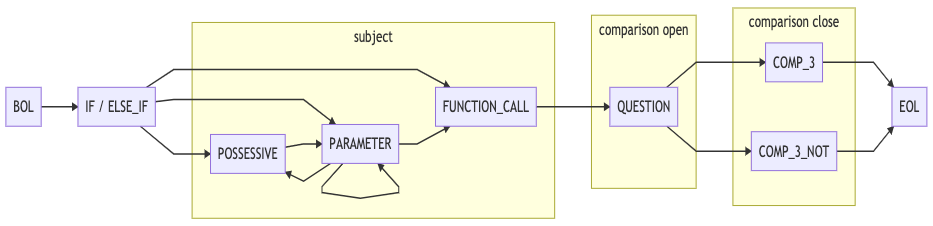
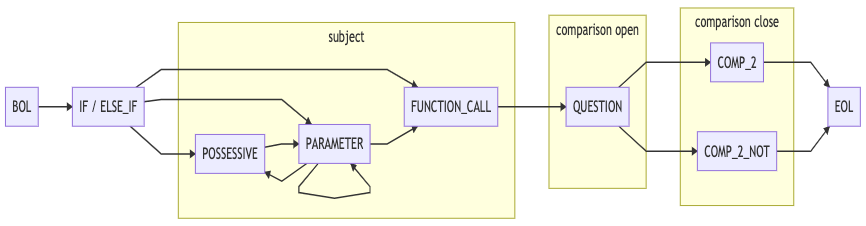
add a new alias for comp_not; rename comp_1 to subject and slide comp_2 and comp_3 down to comp_1 and comp_2

diff --git a/src/tokenizer/constants.rb b/src/tokenizer/constants.rb
@@ -107,40 +107,40 @@ module Tokenizer
       { mod: ZERO_OR_ONE, token: Token::POSSESSIVE },            # POSSESSIVE ?
       { mod: EXACTLY_ONE, branch_sequence: [                     # (
         { mod: EXACTLY_ONE, sub_sequence: [                      #   (
-          { mod: EXACTLY_ONE, token: Token::COMP_2 },            #     COMP_2
+          { mod: EXACTLY_ONE, token: Token::COMP_1 },            #     COMP_1
           { mod: EXACTLY_ONE, token: Token::QUESTION },          #     QUESTION
           { mod: EXACTLY_ONE, branch_sequence: [                 #     (
-            { mod: EXACTLY_ONE, token: Token::COMP_3 },          #       COMP_3
-            { mod: EXACTLY_ONE, token: Token::COMP_3_NOT },      #       | COMP_3
+            { mod: EXACTLY_ONE, token: Token::COMP_2 },          #       COMP_2
+            { mod: EXACTLY_ONE, token: Token::COMP_2_NOT },      #       | COMP_2
           ] },                                                   #     )
         ] },                                                     #   )
         { mod: EXACTLY_ONE, sub_sequence: [                      #   | (
-          { mod: EXACTLY_ONE, token: Token::COMP_1 },            #     COMP_1
+          { mod: EXACTLY_ONE, token: Token::SUBJECT },           #     SUBJECT
           { mod: ZERO_OR_ONE, token: Token::POSSESSIVE },        #     POSSESSIVE ?
           { mod: EXACTLY_ONE, branch_sequence: [                 #     (
             { mod: EXACTLY_ONE, sub_sequence: [                  #       (
               { mod: EXACTLY_ONE, branch_sequence: [             #         (
+                { mod: EXACTLY_ONE, token: Token::COMP_1 },      #           COMP_1
+                { mod: EXACTLY_ONE, token: Token::COMP_1_GTEQ }, #           | COMP_1_GTEQ
+                { mod: EXACTLY_ONE, token: Token::COMP_1_LTEQ }, #           | COMP_1_LTEQ
+              ] },                                               #         )
+              { mod: EXACTLY_ONE, branch_sequence: [             #         (
                 { mod: EXACTLY_ONE, token: Token::COMP_2 },      #           COMP_2
-                { mod: EXACTLY_ONE, token: Token::COMP_2_GTEQ }, #           | COMP_2_GTEQ
-                { mod: EXACTLY_ONE, token: Token::COMP_2_LTEQ }, #           | COMP_2_LTEQ
-              ] },                                               #         )
-              { mod: EXACTLY_ONE, branch_sequence: [             #         (
-                { mod: EXACTLY_ONE, token: Token::COMP_3 },      #           COMP_3
-                { mod: EXACTLY_ONE, token: Token::COMP_3_NOT },  #           | COMP_3
+                { mod: EXACTLY_ONE, token: Token::COMP_2_NOT },  #           | COMP_2
               ] },                                               #         )
             ] },                                                 #       )
             { mod: EXACTLY_ONE, sub_sequence: [                  #       | (
-              { mod: EXACTLY_ONE, token: Token::COMP_2_TO },     #         COMP_2_TO
+              { mod: EXACTLY_ONE, token: Token::COMP_1_TO },     #         COMP_1_TO
               { mod: EXACTLY_ONE, branch_sequence: [             #         (
-                { mod: EXACTLY_ONE, token: Token::COMP_3_EQ },   #           COMP_3_EQ
-                { mod: EXACTLY_ONE, token: Token::COMP_3_NEQ },  #           | COMP_3_NEQ
+                { mod: EXACTLY_ONE, token: Token::COMP_2_EQ },   #           COMP_2_EQ
+                { mod: EXACTLY_ONE, token: Token::COMP_2_NEQ },  #           | COMP_2_NEQ
               ] },                                               #         )
             ] },                                                 #       )
             { mod: EXACTLY_ONE, sub_sequence: [                  #       | (
-              { mod: EXACTLY_ONE, token: Token::COMP_2_YORI },   #         COMP_2_YORI
+              { mod: EXACTLY_ONE, token: Token::COMP_1_YORI },   #         COMP_1_YORI
               { mod: EXACTLY_ONE, branch_sequence: [             #         (
-                { mod: EXACTLY_ONE, token: Token::COMP_3_LT },   #           COMP_3_YORI
-                { mod: EXACTLY_ONE, token: Token::COMP_3_GT },   #           | COMP_3_GT
+                { mod: EXACTLY_ONE, token: Token::COMP_2_LT },   #           COMP_2_YORI
+                { mod: EXACTLY_ONE, token: Token::COMP_2_GT },   #           | COMP_2_GT
               ] },                                               #         )
             ] },                                                 #       )
           ] },                                                   #     )
@@ -162,8 +162,8 @@ module Tokenizer
       { mod: ZERO_OR_ONE, token: Token::BANG },          # BANG ?
       { mod: ZERO_OR_ONE, token: Token::QUESTION },      # QUESTION ?
       { mod: EXACTLY_ONE, branch_sequence: [             # (
-        { mod: EXACTLY_ONE, token: Token::COMP_3 },      #   COMP_3
-        { mod: EXACTLY_ONE, token: Token::COMP_3_NOT },  #   | COMP_3
+        { mod: EXACTLY_ONE, token: Token::COMP_2 },      #   COMP_2
+        { mod: EXACTLY_ONE, token: Token::COMP_2_NOT },  #   | COMP_2
       ] },                                               # )
       { mod: EXACTLY_ONE, token: Token::EOL },           # EOL
     ],

diff --git a/src/tokenizer/lexer/token_lexers/comp_2.rb b/src/tokenizer/lexer/token_lexers/comp_2.rb
@@ -1,15 +1,30 @@
 module Tokenizer
   class Lexer
     module TokenLexers
-      # Either an rvalue (primitive or variable) or its a property token. It
-      # cannot be a key variable (otherwise rvalue? would be true).
       def comp_2?(chunk)
-        rvalue?(chunk) || property_type(chunk, validate?: false) != Token::KEY_VAR
+        chunk =~ /^ならば?$/
       end
 
-      def tokenize_comp_2(chunk)
-        @stack << comp_token(chunk)
-        Token.new Token::COMP_2
+      def tokenize_comp_2(chunk, options = { reverse?: false })
+        comparison_tokens = {
+          Token::QUESTION    => [Token.new(Token::COMP_EQ)],
+          Token::COMP_1      => [Token.new(Token::COMP_EQ)],
+          Token::COMP_1_LTEQ => [Token.new(Token::COMP_LTEQ)],
+          Token::COMP_1_GTEQ => [Token.new(Token::COMP_GTEQ)],
+        }[@context.last_token_type]
+
+        raise Errors::UnexpectedInput, chunk if comparison_tokens.nil?
+
+        if @context.last_token_type == Token::QUESTION
+          if stack_is_truthy_check?
+            comparison_tokens << Token.new(Token::RVALUE, '真', sub_type: Token::VAL_TRUE)
+          else # function call
+            @stack.pop # drop question
+          end
+        end
+
+        flip_comparison comparison_tokens if options[:reverse?]
+        close_if_statement comparison_tokens
       end
     end
   end

diff --git a/src/token.rb b/src/token.rb
@@ -45,20 +45,20 @@ class Token
 
     # comparators
     # 条件式、左側
-    :COMP_1,         # [変数|値]が
+    :SUBJECT,        # [変数|値]が
     # 条件式、右側
-    :COMP_2,         # [変数|値](後:[ハテナマーク])
-    :COMP_2_TO,      # [変数|値]と
-    :COMP_2_YORI,    # [変数|値]より
-    :COMP_2_GTEQ,    # [変数|値]以上
-    :COMP_2_LTEQ,    # [変数|値]以下
+    :COMP_1,         # [変数|値](後:[ハテナマーク])
+    :COMP_1_TO,      # [変数|値]と
+    :COMP_1_YORI,    # [変数|値]より
+    :COMP_1_GTEQ,    # [変数|値]以上
+    :COMP_1_LTEQ,    # [変数|値]以下
     # 条件式、演算子
-    :COMP_3,         # ならば
-    :COMP_3_NOT,     # でなければ
-    :COMP_3_EQ,      # 等しければ
-    :COMP_3_NEQ,     # 等しくなければ
-    :COMP_3_GT,      # 大きければ
-    :COMP_3_LT,      # 小さければ
+    :COMP_2,         # ならば
+    :COMP_2_NOT,     # でなければ
+    :COMP_2_EQ,      # 等しければ
+    :COMP_2_NEQ,     # 等しくなければ
+    :COMP_2_GT,      # 大きければ
+    :COMP_2_LT,      # 小さければ
     # 比較演算子
     :COMP_LT,        # A < B
     :COMP_LTEQ,      # A <= B

diff --git a/src/tokenizer/lexer/token_lexers/comp_2_lt.rb b/src/tokenizer/lexer/token_lexers/comp_2_lt.rb
@@ -3,7 +3,7 @@ module Tokenizer
     module TokenLexers
       # rubocop:disable Layout/MultilineOperationIndentation
       # rubocop:disable Layout/SpaceAroundOperators
-      def comp_3_lt?(chunk)
+      def comp_2_lt?(chunk)
         chunk =~ /^(小|ちい)さければ$/ ||
         chunk =~ /^(短|みじか)ければ$/ ||
         chunk =~ /^(低|ひく)ければ$/   ||
@@ -13,7 +13,7 @@ module Tokenizer
       # rubocop:enable Layout/MultilineOperationIndentation
       # rubocop:enable Layout/SpaceAroundOperators
 
-      def tokenize_comp_3_lt(_chunk)
+      def tokenize_comp_2_lt(_chunk)
         close_if_statement [Token.new(Token::COMP_LT)]
       end
     end

diff --git a/src/tokenizer/lexer/token_lexers/comp_2_gt.rb b/src/tokenizer/lexer/token_lexers/comp_2_gt.rb
@@ -2,7 +2,7 @@ module Tokenizer
   class Lexer
     module TokenLexers
       # rubocop:disable Layout/MultilineOperationIndentation
-      def comp_3_gt?(chunk)
+      def comp_2_gt?(chunk)
         chunk =~ /^(大|おお)きければ$/ ||
         chunk =~ /^(長|なが)ければ$/   ||
         chunk =~ /^(高|たか)ければ$/   ||
@@ -11,7 +11,7 @@ module Tokenizer
       end
       # rubocop:enable Layout/MultilineOperationIndentation
 
-      def tokenize_comp_3_gt(_chunk)
+      def tokenize_comp_2_gt(_chunk)
         close_if_statement [Token.new(Token::COMP_GT)]
       end
     end

diff --git a/src/tokenizer/lexer.rb b/src/tokenizer/lexer.rb
@@ -336,7 +336,7 @@ module Tokenizer
 
       begin_scope Scope::TYPE_IF_BLOCK
 
-      Token.new Token::COMP_3
+      Token.new Token::COMP_2
     end
 
     # Unlike the other *_from_stack methods, this is non-destructive.
@@ -404,7 +404,7 @@ module Tokenizer
 
     # Returns true if the stack is just:
     # * IF or ELSE_IF
-    # * COMP_2 or POSSESSIVE + PROPERTY
+    # * COMP_1 or POSSESSIVE + PROPERTY
     # * QUESTION
     def stack_is_truthy_check?
       (@stack.size == 3 && @stack[1].type == Token::RVALUE) || (@stack.size == 4 && @stack[1].type == Token::POSSESSIVE)

diff --git a/src/tokenizer/lexer/token_lexers/comp_1.rb b/src/tokenizer/lexer/token_lexers/comp_1.rb
@@ -1,12 +1,14 @@
 module Tokenizer
   class Lexer
     module TokenLexers
+      # Either an rvalue (primitive or variable) or its a property token. It
+      # cannot be a key variable (otherwise rvalue? would be true).
       def comp_1?(chunk)
-        chunk =~ /.+が$/
+        rvalue?(chunk) || property_type(chunk, validate?: false) != Token::KEY_VAR
       end
 
       def tokenize_comp_1(chunk)
-        @stack << comp_token(chunk.chomp('が'))
+        @stack << comp_token(chunk)
         Token.new Token::COMP_1
       end
     end

diff --git a/src/tokenizer/context.rb b/src/tokenizer/context.rb
@@ -16,7 +16,7 @@ module Tokenizer
       @status = 0b0
 
       # The last token parsed in the sequence. It may not be present in the @stack or @output_buffer, but is guaranteed
-      # to represent the last token parsed. Some tokens may be generalised, such as COMP_2 or COMP_3.
+      # to represent the last token parsed. Some tokens may be generalised, such as COMP_1 or COMP_2.
       @last_token_type = Token::EOL
     end
 

diff --git a/spec/tokenizer/errors/unexpected_input_spec.rb b/spec/tokenizer/errors/unexpected_input_spec.rb
@@ -269,7 +269,7 @@ RSpec.describe Tokenizer::Lexer, 'error handling' do
       expect_error Tokenizer::Errors::UnexpectedInput
     end
 
-    it 'raises an error on an if statement into multiple comp_1' do
+    it 'raises an error on an if statement into multiple subjects' do
       mock_reader(
         "あれは 配列\n" \
         "もし あれの 長さが あれの 長さが あれの 長さ？ ならば\n"

diff --git a/src/tokenizer/lexer/token_lexers/comp_1_gteq.rb b/src/tokenizer/lexer/token_lexers/comp_1_gteq.rb
@@ -1,13 +1,13 @@
 module Tokenizer
   class Lexer
     module TokenLexers
-      def comp_2_gteq?(chunk)
+      def comp_1_gteq?(chunk)
         chunk =~ /.+以上$/
       end
 
-      def tokenize_comp_2_gteq(chunk)
+      def tokenize_comp_1_gteq(chunk)
         @stack << comp_token(chunk.chomp('以上'))
-        Token.new Token::COMP_2_GTEQ
+        Token.new Token::COMP_1_GTEQ
       end
     end
   end

diff --git a/src/tokenizer/lexer/token_lexers/comp_1_lteq.rb b/src/tokenizer/lexer/token_lexers/comp_1_lteq.rb
@@ -1,13 +1,13 @@
 module Tokenizer
   class Lexer
     module TokenLexers
-      def comp_2_lteq?(chunk)
+      def comp_1_lteq?(chunk)
         chunk =~ /.+以下$/
       end
 
-      def tokenize_comp_2_lteq(chunk)
+      def tokenize_comp_1_lteq(chunk)
         @stack << comp_token(chunk.chomp('以下'))
-        Token.new Token::COMP_2_LTEQ
+        Token.new Token::COMP_1_LTEQ
       end
     end
   end

diff --git a/src/tokenizer/lexer/token_lexers/comp_1_yori.rb b/src/tokenizer/lexer/token_lexers/comp_1_yori.rb
@@ -1,13 +1,13 @@
 module Tokenizer
   class Lexer
     module TokenLexers
-      def comp_2_yori?(chunk)
+      def comp_1_yori?(chunk)
         chunk =~ /.+より$/
       end
 
-      def tokenize_comp_2_yori(chunk)
+      def tokenize_comp_1_yori(chunk)
         @stack << comp_token(chunk.chomp('より'))
-        Token.new Token::COMP_2_YORI
+        Token.new Token::COMP_1_YORI
       end
     end
   end
